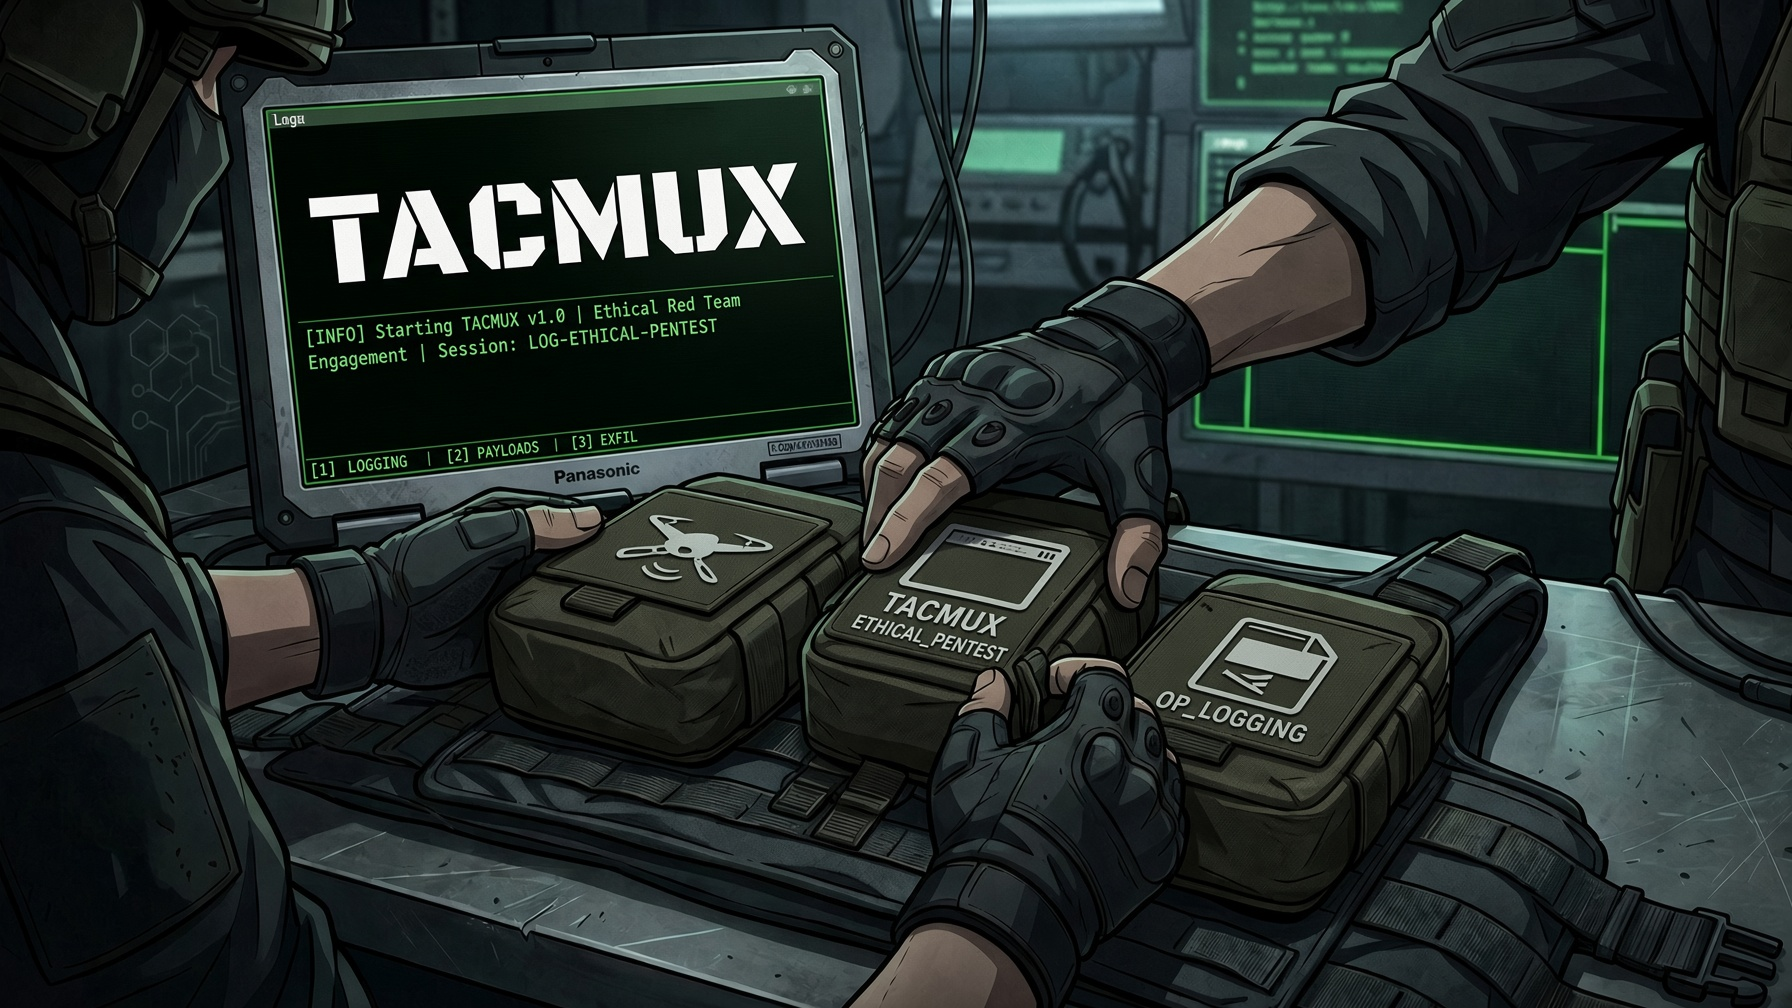
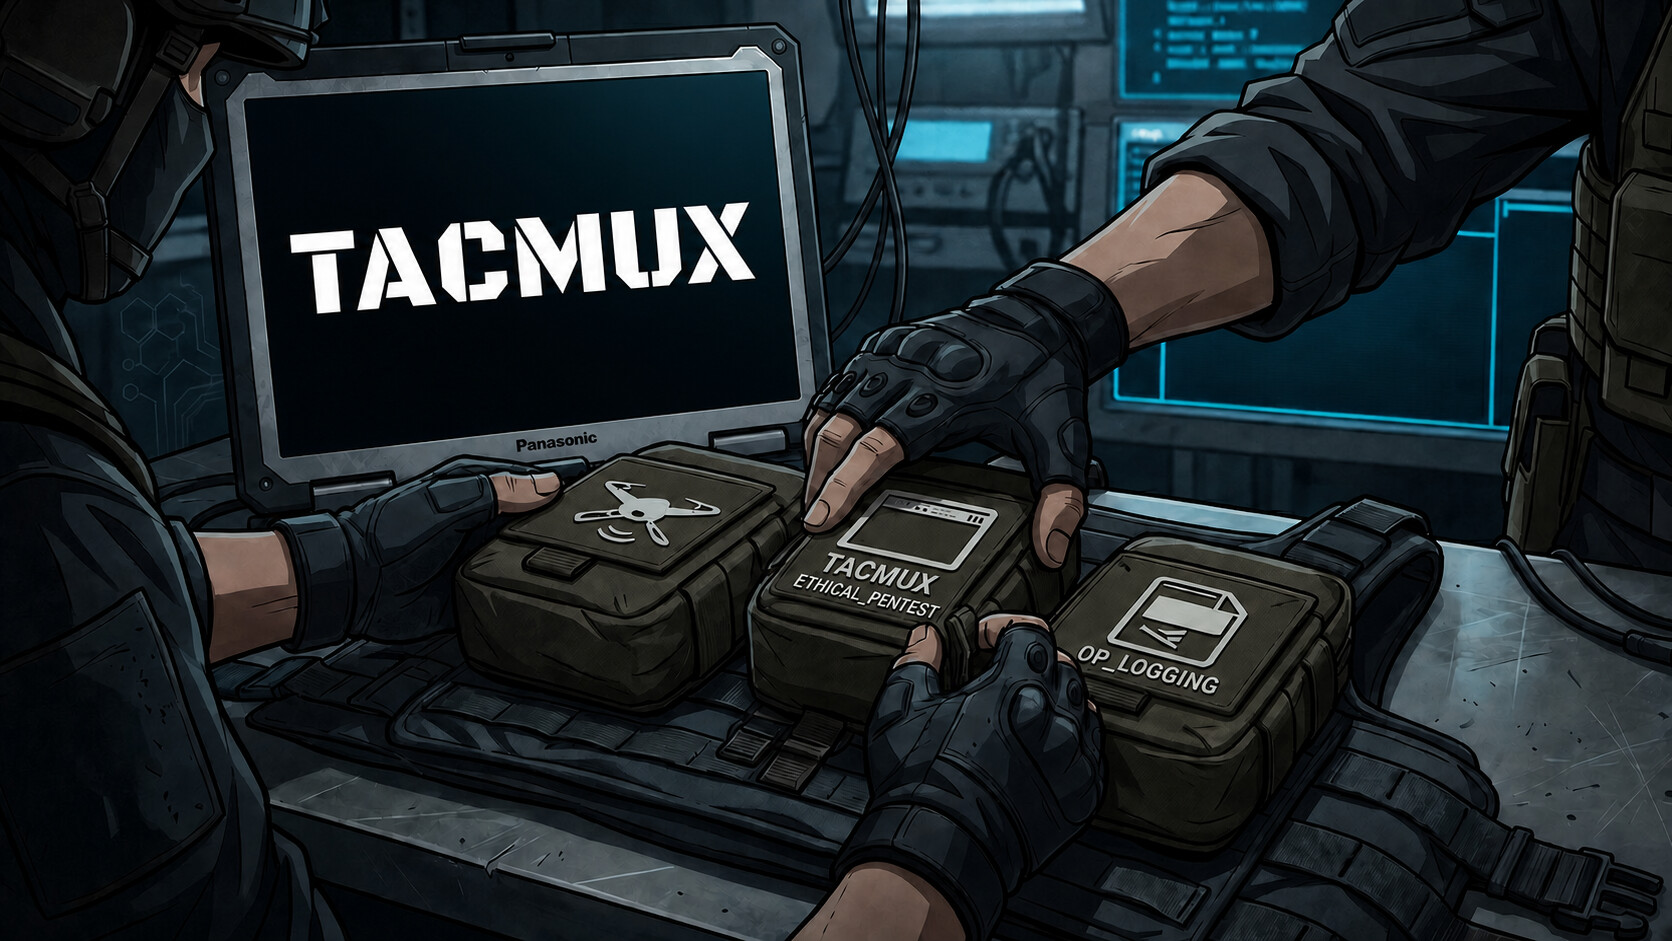
docs: clarify tmux workflow and refresh TACMUX artwork

diff --git a/README.md b/README.md
@@ -11,7 +11,7 @@
 
 TACMUX is a lean tmux-native workspace helper for authorized penetration tests and red-team operations. It keeps you in your shells while handling target sessions, pane logs, credentials, ports, tasks, cleanup, and a single editable situation report.
 
-There is no dashboard to maintain. Target directories are inventory, `SITREP.md` is operational state, `fzf` is the switcher, and `$EDITOR` is the correction interface.
+Target directories are inventory, `SITREP.md` holds the working notes and current state, `fzf` switches sessions, and `$EDITOR` handles longer edits.
 
 > Use TACMUX only with explicit authorization. You remain responsible for scope, rules of engagement, testing windows, evidence handling, and retention.
 
@@ -37,6 +37,8 @@ tacmux health
 
 The installer places TACMUX under `~/.local/share/tacmux`, links the command into `~/.local/bin`, enables Zsh completion, and adds only the TACMUX integration fragment to an existing `~/.tmux.conf`. General tmux preferences belong to the operator or system loadout. Start a new shell after installation so completion is active.
 
+On reinstall, omit `--workspace` to preserve the existing configuration. For the shorthand used below, add `alias tm='tacmux'` to your shell configuration and reload it.
+
 ## Start working
 
 ```bash
@@ -53,13 +55,13 @@ tm log "Nginx and SSH identified"
 tm todo add "Enumerate the web application"
 tm creds add
 nmap -sV "$TARGET" | tm ports add
-cap -n initial-shell id
-tm done -c -i proof.png "Obtained a shell as svc_web"
-tm cleanup add "Remove uploaded payload"
+tm log "Service enumeration complete; web testing still pending"
 tm status
 ```
 
-`tm` is a recommended shell alias for `tacmux`; TACMUX itself installs only the `tacmux` executable.
+Run scans only against authorized endpoints. `ports add` accepts a matching single-host Nmap report; host identification through `tm discover` is a separate, reviewed import. TACMUX installs the `tacmux` executable, not a separate `tm` command.
+
+After a real validation run captured with NOCAP, record the demonstrated result with `tm done -c "Completed step"`. A local `cap id` proves the identity of the local process, not access to the target.
 
 ## Core commands
 
@@ -134,6 +136,9 @@ Capture-assisted entries include evidence and command details, an editable scree
 Use `tm done --capture-id ID "Completed step"` to attach an earlier capture from
 the same target route, `tm log edit E001` to update that event, and
 `tm creds view C001` to display a full credential without table truncation.
+NOCAP's latest capture is engagement-wide in TACMUX sessions; check `cap timeline`
+after switching hosts and use the intended ID. Displaying credentials can put
+secrets into pane logs even when their original entry used a hidden prompt.
 
 To keep the canonical SITREP in any external Markdown notes directory, set one optional path:
 
@@ -149,9 +154,10 @@ See the [operator guide](docs/USAGE.md), [keybindings](docs/KEYBINDINGS.md), and
 
 ## Deliberate boundaries
 
-TACMUX does not manage formal scope, authorization windows, findings, attack paths, report generation, engagement archives, multi-user collaboration, exploitation, or AI. Use the client RoE, reporting platform, filesystem/tar, and purpose-built tools for those jobs.
+TACMUX does not enforce scope or authorization windows, maintain a formal findings or attack-path registry, generate reports, create engagement archives, exploit targets, or call AI. Draft findings and the demonstrated sequence belong in the Operations Log; use the client RoE and reporting platform for formal assessment management.
 
 TACMUX stores raw credential material when you ask it to. Treat the entire engagement directory as sensitive evidence. Shared folders and cloud-synced paths may not enforce Unix permissions.
+Back up the workspace and, when using `sitrep_root`, the physical note and its sibling `images/` directory. A backup containing only the workspace symlink is incomplete.
 
 ## Remove
 
